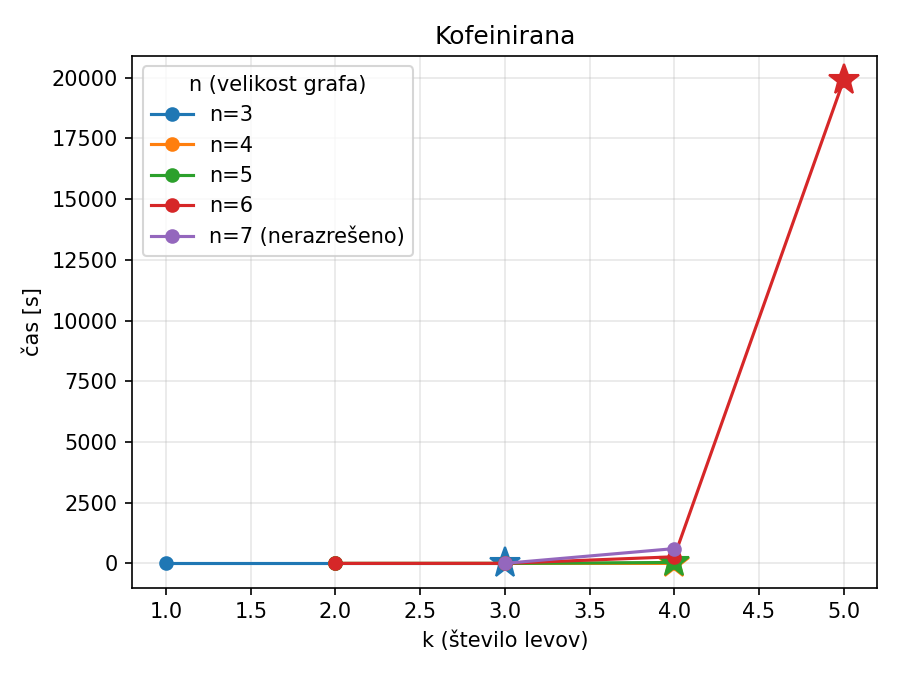
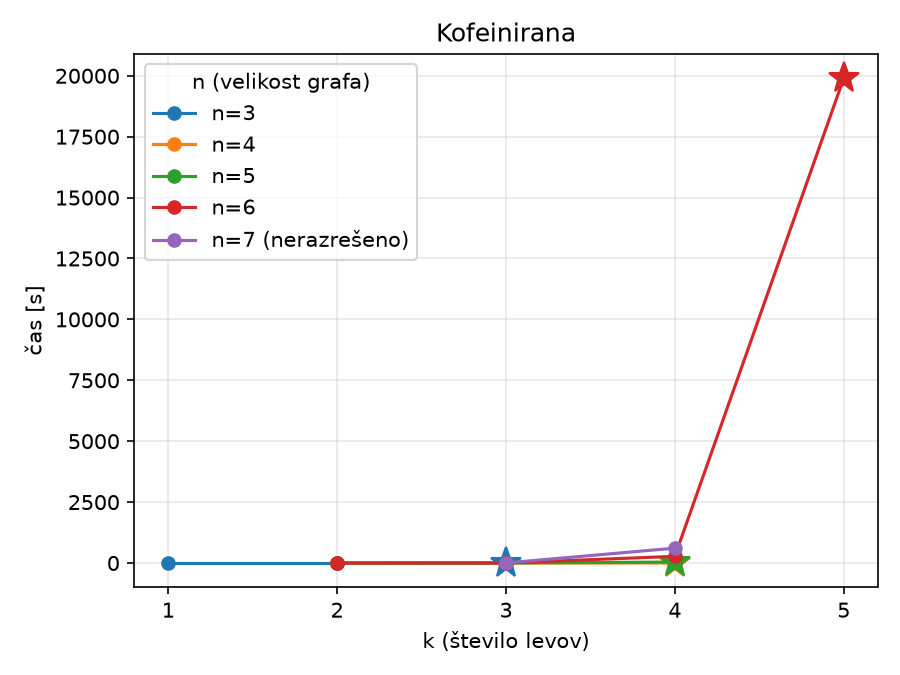
minor fixed

diff --git a/plot_times.py b/plot_times.py
@@ -3,6 +3,7 @@ import sys
 from pathlib import Path
 
 import matplotlib.pyplot as plt
+from matplotlib.ticker import MaxNLocator
 
 STRATEGIES = ["polite", "monotone", "caffeinated"]
 
@@ -42,6 +43,8 @@ def plot_strategy(ax, strat):
 
     ax.set_title(SLO_TITLES.get(strat, strat))
     ax.set_xlabel("k (število levov)")
+    # k je vedno celo število -> celoštevilske oznake na osi x pri vseh strategijah
+    ax.xaxis.set_major_locator(MaxNLocator(integer=True))
     ax.set_ylabel("čas [s]")
     ax.grid(True, alpha=0.3)
     ax.legend(title="n (velikost grafa)")

diff --git a/README.md b/README.md
@@ -25,6 +25,16 @@ razpon `n`, ki ju želiš pognati, nato:
 python main.py
 ```
 
+oziroma
+
+```bash
+python3 main.py
+```
+
+Ime ukaza je odvisno od operacijskega sistema — na macOS/Linuxu je praviloma
+`python3`, na Windows pa `python`. Če eden ne deluje, poskusi drugega; enako
+velja za vse ostale ukaze v tem dokumentu.
+
 Rezultati se sproti shranijo v `final_solutions/`:
 
 - **ena JSON datoteka na najdeno rešitev** — `strategy`, `n`, `k`, `steps`,
@@ -37,12 +47,14 @@ Rezultati se sproti shranijo v `final_solutions/`:
 Strežnik je potrebno pognati iz korenske mape projekta:
 
 ```bash
-python3 -m http.server 8000
+python -m http.server 8000
 ```
 
-Ime ukaza je odvisno od operacijskega sistema — na macOS/Linuxu je praviloma
-`python3`, na Windows pa `python`. Če eden ne deluje, poskusi drugega; enako
-velja za vse ostale ukaze v tem dokumentu.
+oziroma
+
+```bash
+python3 -m http.server 8000
+```
 
 Nato odpri <http://localhost:8000/web/>.
 
@@ -50,6 +62,12 @@ Nato odpri <http://localhost:8000/web/>.
 
 ```bash
 python plot_times.py
+```
+
+oziroma 
+
+```bash
+python3 plot_times.py
 ```
 
 Shrani združeno sliko in tri ločene (`times_polite.png`, `times_monotone.png`,
